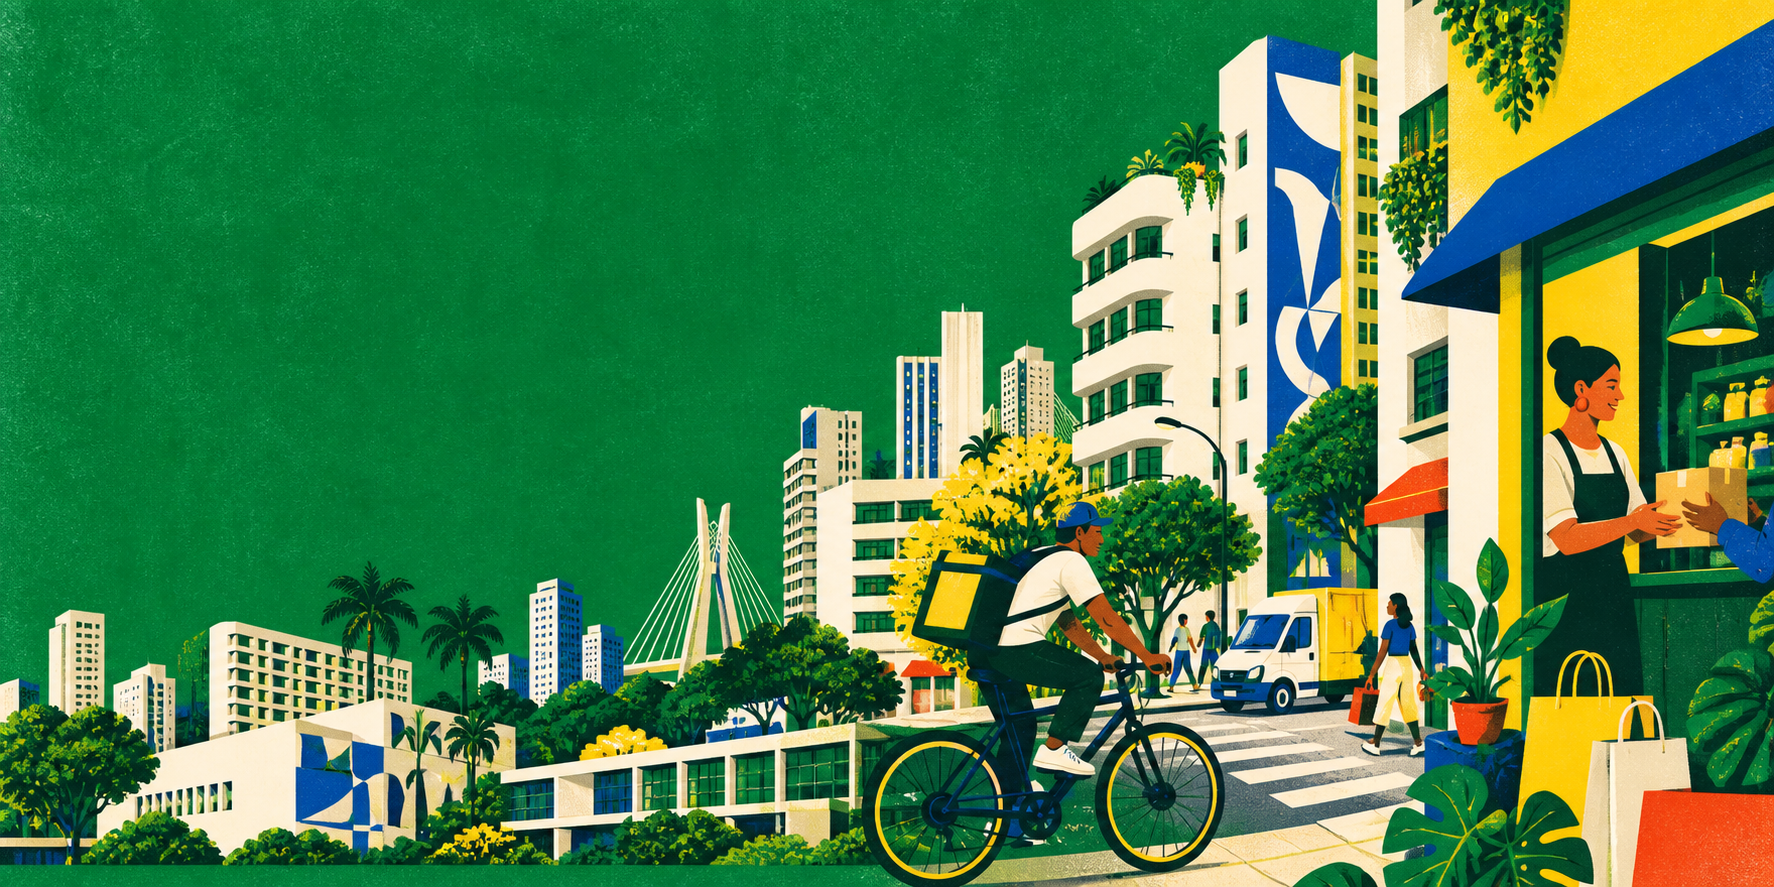
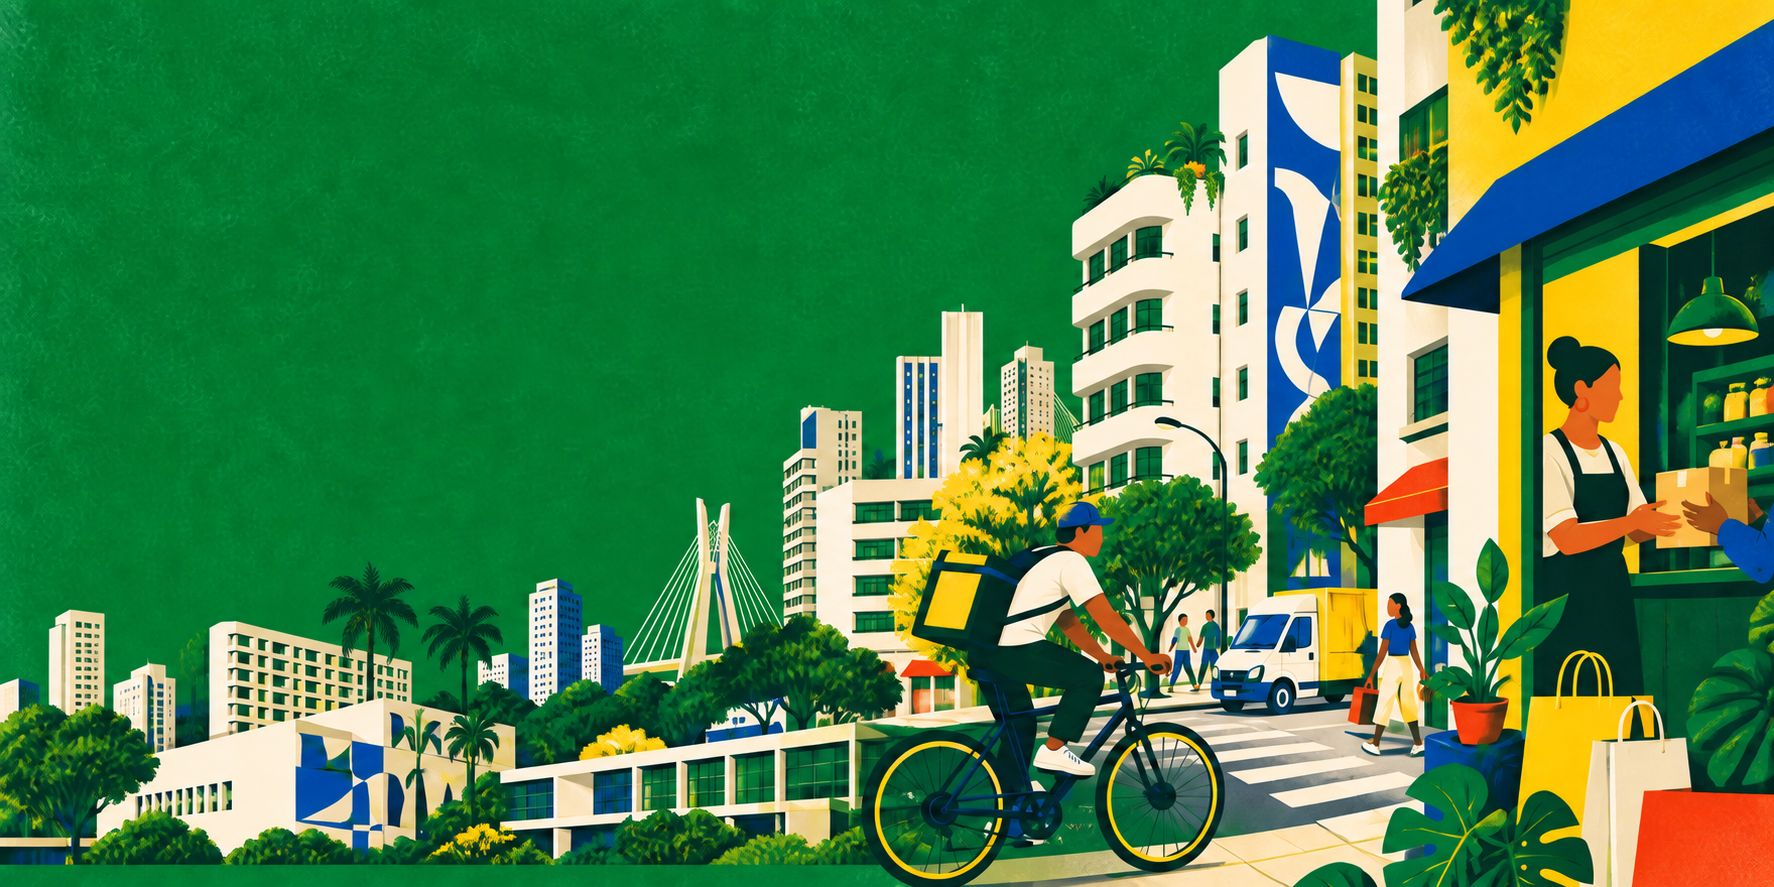
Make Samba header illustration faceless

diff --git a/assets/samba/README.md b/assets/samba/README.md
@@ -19,3 +19,5 @@ City aggregation uses city and state together. Item quantity is the mean of `qty
 Prompt: Create a wide landscape editorial illustration asset for a Brazilian e-commerce data-story called Samba. NO text, NO lettering, NO charts, NO UI. Brazilian modernist screenprint / sophisticated cut-paper poster style, visible subtle paper and ink textures, crisp geometric forms. Strong vivid emerald green, sunshine yellow, white, cobalt blue accents and tiny tomato-red detail. Depict the actual subject e-commerce: a lively stylized Sao Paulo neighborhood of modernist apartment blocks and small shopfronts, a delivery bicycle with packages, hands passing a parcel, shopping parcels, a small delivery van. A coherent continuous city scene, not floating clipart. Artistic and grown-up, not childish or carnival or football. Panoramic composition roughly 2:1. LEFT 42 percent is a mostly uninterrupted rich emerald green wall/sky with very subtle screenprint texture, deliberately calm enough for large white/yellow webpage typography overlay. RIGHT side densely composed city and commerce illustration with architecture extending across the bottom, all core delivery subjects visible. Bright high contrast, flat colors, no gradients, no 3D, no rounded card, no borders.
 
 The local D3 v7 runtime and Font Awesome assets are reused without modification.
+
+Header revision, 2026-09-13: edited with the built-in image-generation tool using the previous header as reference. Edit brief: remove facial features from every person, preserving skin tone, hair, silhouette, poses, composition, palette, and the 1774-by-887 panoramic framing. The faceless version replaces `brazil-commerce.png`; article content and visualizations are unchanged.
